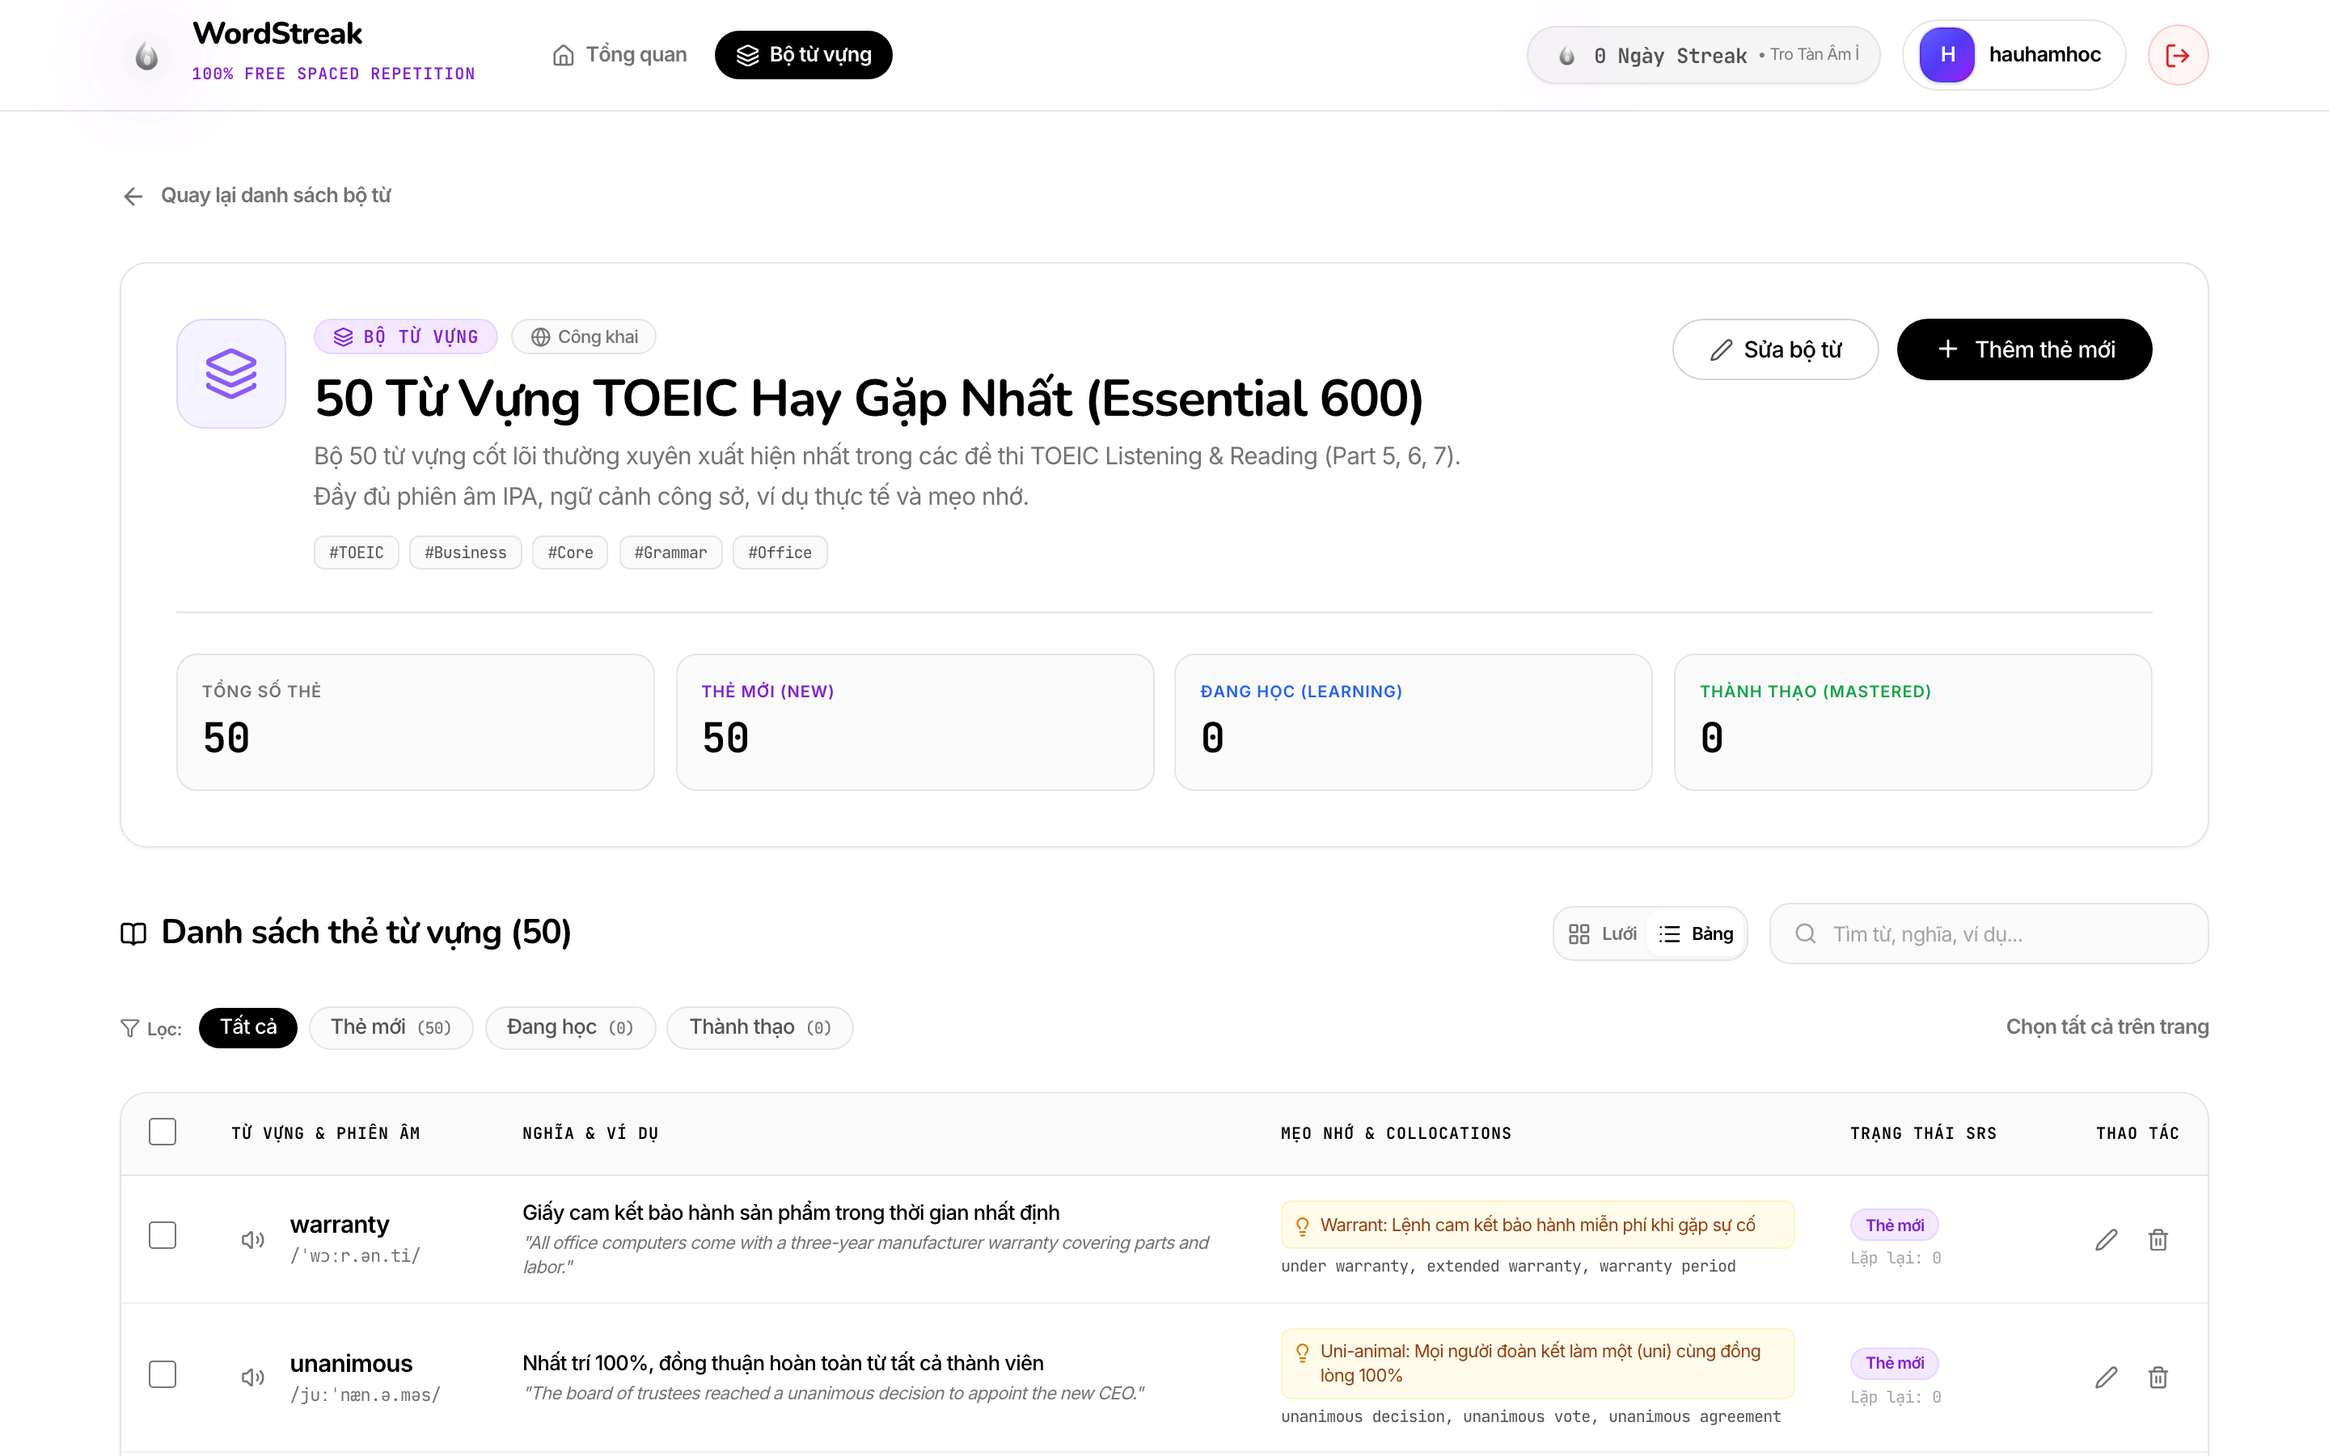
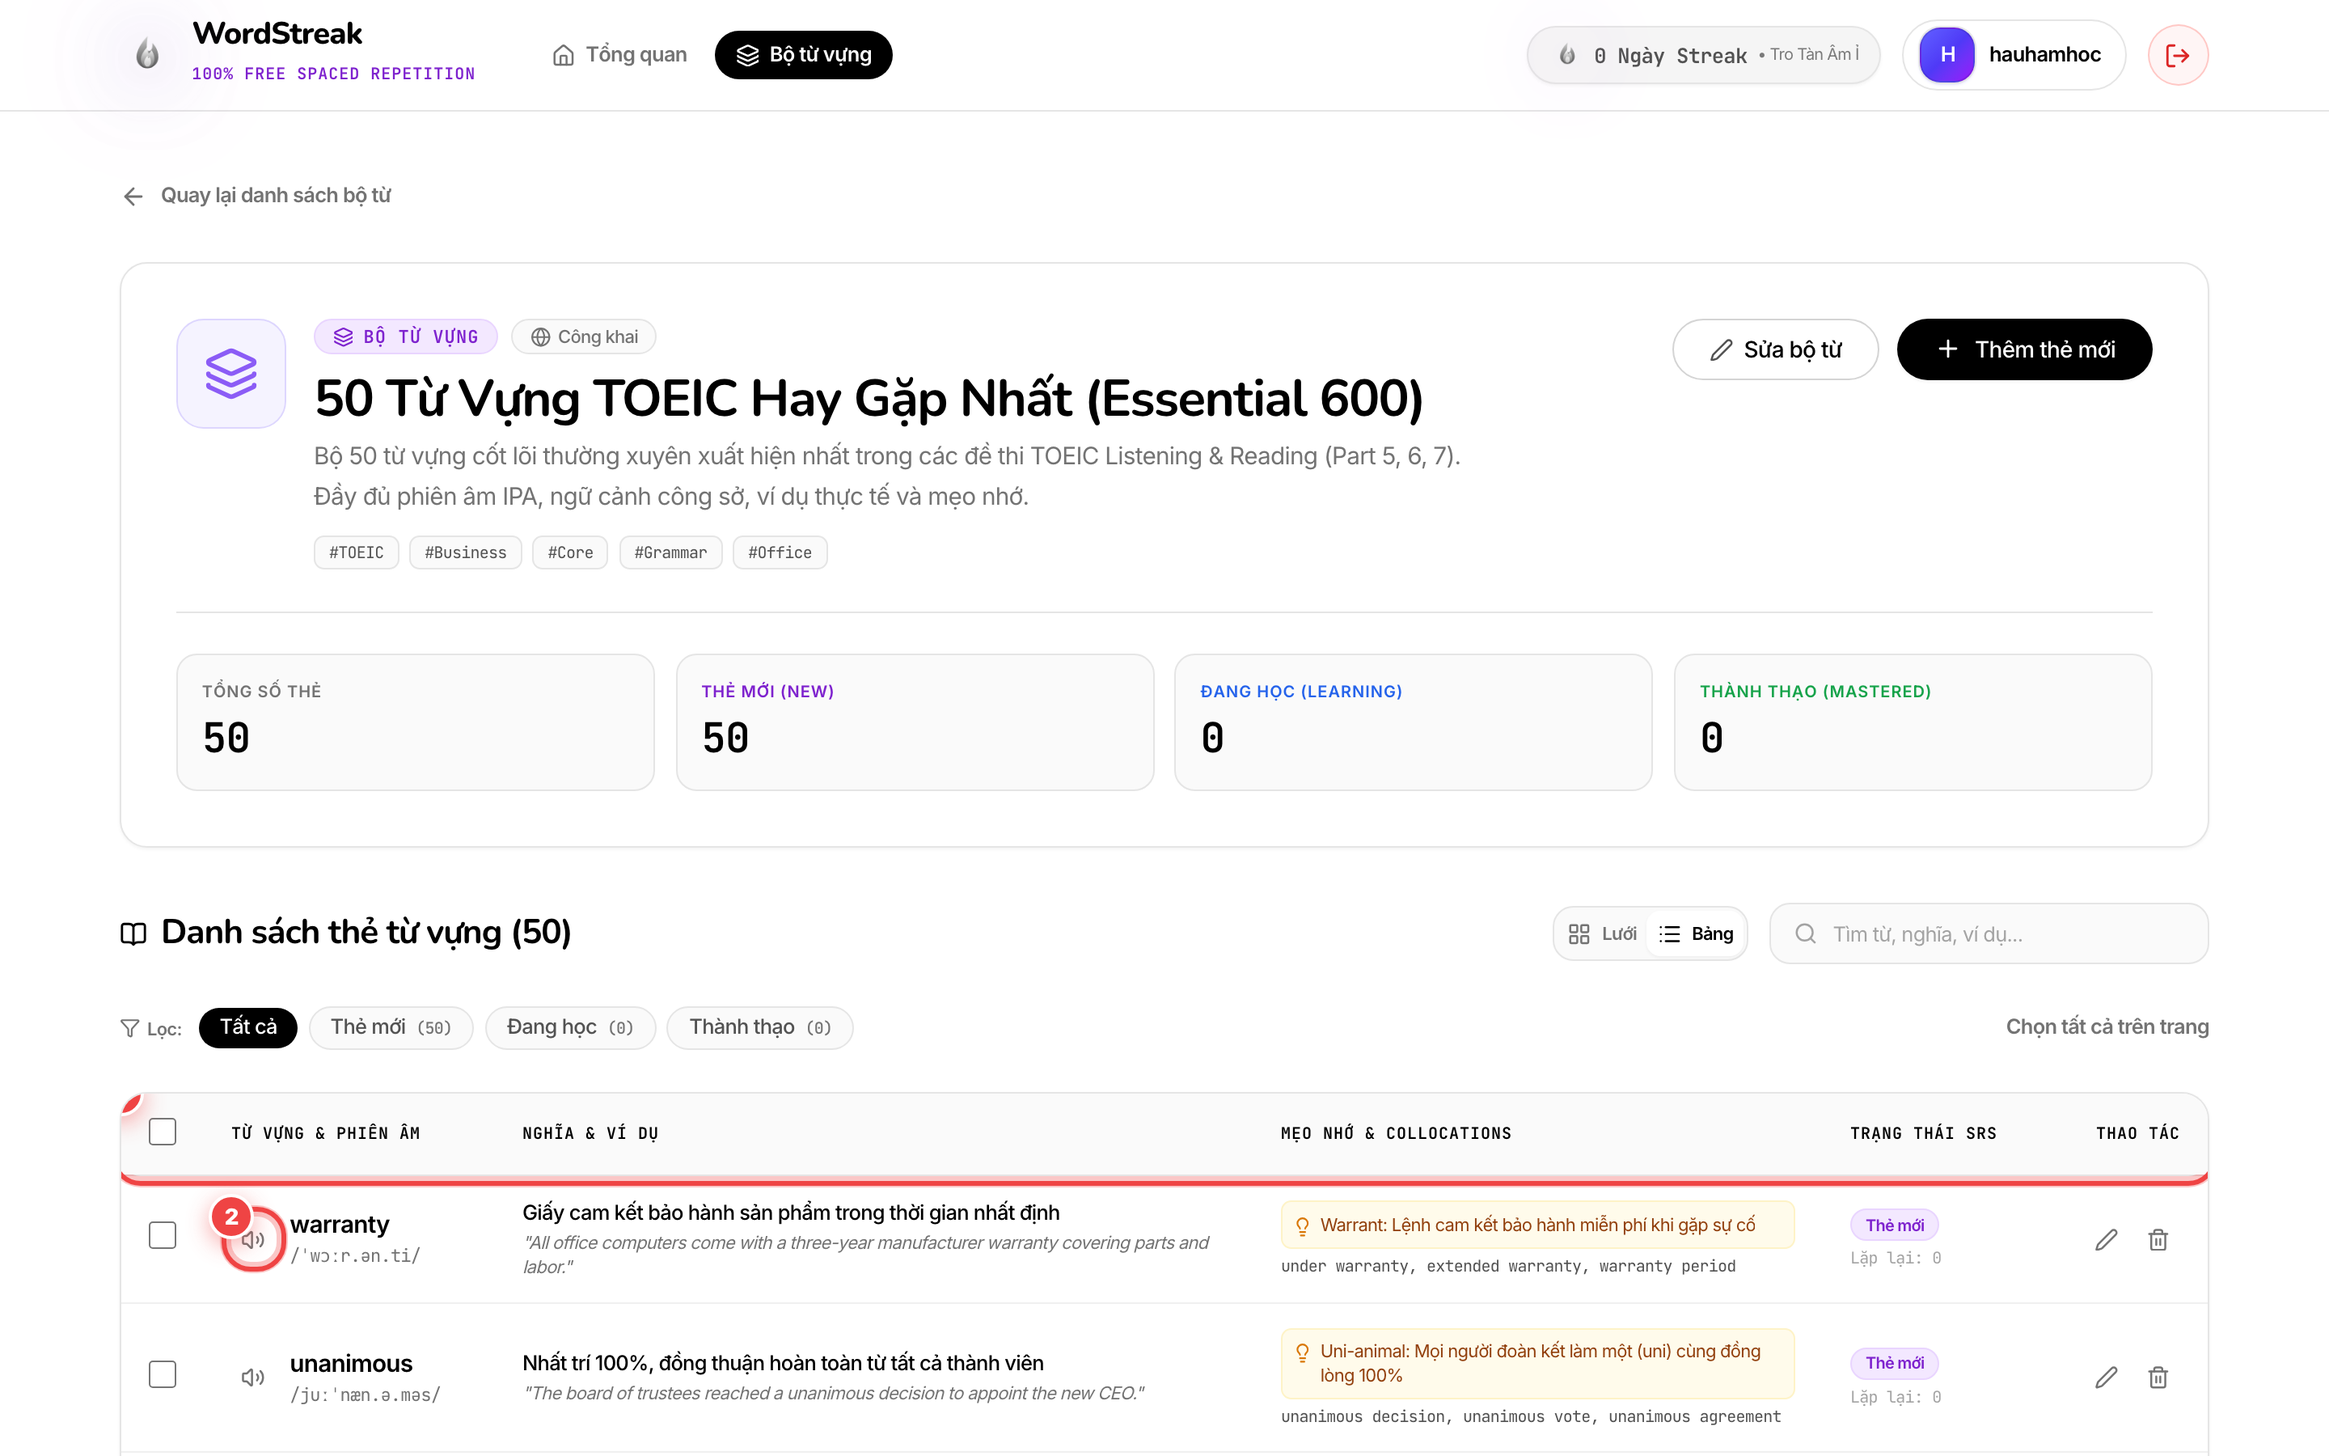
docs(user-guide): update red visual highlights and standardize user guide structure

Changed region(s): [[0.0625, 0.8089, 0.9375, 0.8711], [0.0312, 0.7467, 0.0625, 0.7778]]

diff --git a/docs/user-guides/card-management.md b/docs/user-guides/card-management.md
@@ -1,91 +1,104 @@
-# 📖 Hướng dẫn Người dùng: Quản lý & Tra cứu Thẻ Từ vựng
+# Hướng dẫn Sử dụng: Quản lý & Tra cứu Thẻ Từ vựng
 
-> **Đối tượng:** Người học WordStreak  
-> **Cập nhật lần cuối:** 2026-08-20  
-> **Trạng thái:** Đã kiểm thử trên giao diện thực tế (100% Real Screenshots with Visual Annotations & Badges)
+> Cập nhật lần cuối: 2026-08-20
 
----
+## Tính năng này giúp gì cho bạn?
 
-## 🎯 Tổng quan
+Khi học một bộ từ vựng có nhiều từ (như bộ 50 từ TOEIC), bạn cần tìm kiếm nhanh, kiểm tra xem từ nào mình đã thuộc, từ nào chưa học, và sắp xếp lại các thẻ một cách gọn gàng.
 
-Tính năng **Quản lý & Tra cứu Thẻ Từ vựng** giúp bạn dễ dàng xem lại, tìm kiếm nhanh và sắp xếp hàng trăm từ vựng trong từng Bộ từ. Bạn có thể linh hoạt chuyển đổi giữa giao diện **Lưới thẻ Flashcard 3D** và **Bảng dữ liệu danh sách**, lọc nhanh các từ theo cấp độ ghi nhớ, cũng như xóa hoặc di chuyển nhiều từ cùng lúc chỉ với vài thao tác đơn giản.
+Tính năng **Quản lý & Tra cứu Thẻ** cho phép bạn:
 
----
-
-## 🚀 Hướng dẫn Chi tiết Từng Bước
-
-### Bước 1: Xem Danh sách Thẻ ở Chế độ Lưới (Grid View)
-
-![Chế độ Lưới Thẻ](./images/card-management/step-01-view-modes.png)
-
-- **① Nút chuyển đổi chế độ xem**: Bấm để chuyển đổi nhanh giữa dạng **Lưới (Grid)** và dạng **Bảng (Table)**.
-- **② Thanh tìm kiếm nhanh**: Nhập từ vựng cần tra cứu ngay tại góc phải.
-- Mỗi thẻ Flashcard hiển thị trực quan từ vựng, phiên âm IPA, nghĩa tiếng Việt, vạch màu chủ đề và nhãn trạng thái học Spaced Repetition (`Mới`, `Đang học`, `Thành thạo`).
+- Xem từ vựng theo dạng **Lưới thẻ Flashcard 3D** hoặc **Bảng dữ liệu hàng ngang** mật độ cao.
+- Tìm kiếm từ khóa theo thời gian thực và lọc theo cấp độ ghi nhớ Spaced Repetition (Mới / Đang học / Thành thạo).
+- Thực hiện các thao tác quản lý hàng loạt: Xóa nhiều thẻ, Chuyển thẻ sang bộ từ khác, hoặc Đặt lại tiến độ học về Mới để học lại từ đầu.
 
 ---
 
-### Bước 2: Tìm kiếm Nhanh & Lọc theo Trạng thái Ghi nhớ
+## Hướng dẫn từng bước
 
-![Tìm kiếm và Lọc trạng thái](./images/card-management/step-02-search-filter.png)
+### Bước 1: Mở Bộ từ vựng và chọn Chế độ hiển thị
 
-- **① Ô tìm kiếm từ khóa**: Nhập từ tiếng Anh (ví dụ: `contract`), nghĩa hoặc câu ví dụ. Kết quả sẽ tự động lọc theo thời gian thực.
-- **② Thẻ lọc trạng thái (Filter Chips)**: Bấm chọn các nhãn màu để lọc:
-  - **Tất cả**: Toàn bộ từ vựng trong bộ từ.
-  - **Thẻ mới**: Từ vừa thêm vào, chưa qua ôn tập Spaced Repetition.
-  - **Đang học**: Từ đang trong chu kỳ ôn tập định kỳ.
-  - **Thành thạo**: Từ đã ghi nhớ xuất sắc (khoảng cách ôn tập $\ge 21$ ngày).
+![Chế độ Lưới và Bảng](./images/card-management/step-01-view-modes.png)
 
----
-
-### Bước 3: Chuyển sang Chế độ Bảng Danh sách (Table View)
-
-![Chế độ Bảng Danh sách](./images/card-management/step-03-table-view.png)
-
-- **① Hàng tiêu đề bảng (Table Header)**: Hiển thị rõ ràng các cột thông tin (Từ vựng, Loại từ & Phiên âm, Nghĩa tiếng Việt, Câu ví dụ, Trạng thái).
-- **② Nút Loa phát âm trực tiếp**: Bấm biểu tượng loa trên từng dòng để nghe giọng đọc bản xứ chuẩn xác ngay tức thì mà không cần mở form chỉnh sửa.
+- Khi mở một Bộ từ, danh sách thẻ mặc định hiển thị ở dạng **Lưới Flashcard 3D**.
+- **① Nút chuyển chế độ xem (Lưới / Bảng)**: Bấm nút **"Bảng"** (khoanh đỏ ①) nếu bạn muốn xem danh sách dạng bảng dòng kẻ nhiều thông tin, hoặc bấm **"Lưới"** để xem dạng thẻ học trực quan. Lựa chọn của bạn sẽ được ghi nhớ tự động cho các lần truy cập sau.
+- **② Thanh tìm kiếm nhanh**: Nằm ngay cạnh nút chuyển chế độ xem (khoanh đỏ ②), sẵn sàng cho bạn gõ từ khóa.
 
 ---
 
-### Bước 4: Chọn Nhiều Thẻ & Thanh Thao tác Hàng loạt (Bulk Actions)
+### Bước 2: Tìm kiếm từ vựng và Lọc theo Mức độ ghi nhớ
 
-![Chọn nhiều thẻ và thanh công cụ](./images/card-management/step-04-bulk-actions.png)
+![Tìm kiếm và Lọc theo trạng thái](./images/card-management/step-02-search-filter.png)
 
-- **① Ô tích chọn (Checkbox)**: Tích chọn các thẻ bạn muốn thao tác (hoặc tích ô trên cùng để chọn toàn bộ thẻ trên trang).
-- **② Thanh công cụ màu đen (Floating Toolbar)**: Tự động nổi lên ở đáy màn hình khi có ít nhất 1 thẻ được chọn, cung cấp 3 thao tác:
-  - 🗑 **Xóa**: Xóa các thẻ đã chọn khỏi bộ từ.
+- **① Ô tìm kiếm từ khóa**: Gõ bất kỳ chữ cái tiếng Anh, nghĩa tiếng Việt hoặc câu ví dụ (ví dụ: gõ `contract` vào ô khoanh đỏ ①). Danh sách sẽ tự động lọc ngay lập tức mà không cần bấm phím Enter.
+- **② Bộ lọc trạng thái (Filter Chips)**: Bấm vào các nhãn màu (khoanh đỏ ②) để lọc:
+  - **Tất cả**: Xem toàn bộ từ trong bộ từ.
+  - **Thẻ mới**: Những từ vựng bạn vừa thêm vào và chưa ôn tập phiên nào.
+  - **Đang học**: Những từ đang trong quá trình lặp lại ngắt quãng để ghi nhớ.
+  - **Thành thạo**: Những từ bạn đã ghi nhớ vững vàng.
+
+---
+
+### Bước 3: Xem Bảng danh sách chi tiết và Nghe phát âm trực tiếp
+
+![Bảng danh sách chi tiết và Phát âm](./images/card-management/step-03-table-view.png)
+
+- **① Hàng tiêu đề và dữ liệu bảng**: Chế độ bảng (khoanh đỏ ①) sắp xếp rõ ràng các cột: Từ vựng, Loại từ & Phiên âm, Nghĩa tiếng Việt, Câu ví dụ, Trạng thái học và Hành động.
+- **② Nút Loa phát âm**: Bấm biểu tượng chiếc loa màu xanh (khoanh đỏ ②) trên từng dòng từ vựng để nghe giọng đọc bản xứ chuẩn xác ngay tức thì mà không cần mở form chỉnh sửa.
+
+---
+
+### Bước 4: Tích chọn nhiều thẻ để mở Thanh thao tác hàng loạt
+
+![Chọn nhiều thẻ và thanh công cụ hàng loạt](./images/card-management/step-04-bulk-actions.png)
+
+- **① Ô tích chọn (Checkbox)**: Tích vào ô vuông ở đầu mỗi dòng (khoanh đỏ ①) cho những từ bạn muốn xử lý (hoặc tích ô trên cùng cạnh tiêu đề để chọn tất cả từ trên trang).
+- **② Thanh công cụ hàng loạt màu đen (Floating Toolbar)**: Sẽ lập tức nổi lên ở đáy màn hình (khoanh đỏ ②), hiển thị số lượng thẻ đã chọn và 3 nút hành động nhanh:
+  - 🗑 **Xóa**: Xóa đồng loạt các thẻ đã chọn.
   - 📦 **Di chuyển**: Chuyển các thẻ sang bộ từ khác.
-  - 🔄 **Đặt lại tiến độ**: Đưa các thẻ đã chọn về trạng thái Thẻ mới để học lại từ đầu.
+  - 🔄 **Đặt lại tiến độ**: Đưa các thẻ đã chọn về trạng thái Mới để học lại từ đầu.
 
 ---
 
-### Bước 5: Di chuyển Thẻ sang Bộ từ Khác (Bulk Move)
+### Bước 5: Di chuyển thẻ sang Bộ từ vựng khác (Bulk Move)
 
-![Cửa sổ di chuyển thẻ](./images/card-management/step-05-bulk-move-modal.png)
+![Cửa sổ di chuyển thẻ sang bộ từ khác](./images/card-management/step-05-bulk-move-modal.png)
 
-1. **① Chọn Bộ từ đích**: Chọn một bộ từ bạn sở hữu trong danh sách thả xuống.
-2. **② Xác nhận di chuyển**: Bấm nút màu xanh để chuyển thẻ. Toàn bộ lịch sử ôn tập Spaced Repetition của các từ này sẽ được giữ nguyên vẹn.
-
----
-
-### Bước 6: Phân trang & Điều hướng Danh sách
-
-![Thanh phân trang](./images/card-management/step-06-pagination.png)
-
-- **① Thanh phân trang (Pagination Bar)**: Hiển thị tổng số thẻ và số trang hiện tại. Bạn có thể chọn số lượng thẻ trên mỗi trang (`10`, `20`, `50` thẻ/trang) và bấm nút **Trước / Sau** để di chuyển mượt mà.
+1. Bấm nút **"Di chuyển"** trên thanh công cụ hàng loạt.
+2. **① Chọn Bộ từ đích**: Chọn bộ từ bạn muốn chuyển đến trong danh sách thả xuống (khoanh đỏ ①).
+3. **② Xác nhận di chuyển**: Bấm nút **"Xác nhận di chuyển"** (khoanh đỏ ②) để hoàn tất. Toàn bộ tiến độ học và lịch sử ôn tập của các thẻ này sẽ được bảo lưu nguyên vẹn sang bộ từ mới.
 
 ---
 
-## 💡 Mẹo Hữu ích (Tips)
+### Bước 6: Phân trang và Tùy chỉnh số lượng thẻ hiển thị
 
-- **Xem nhanh Collocations & Mẹo nhớ**: Ở chế độ Lưới, bấm nút mở rộng dưới chân mỗi thẻ để đọc mẹo ghi nhớ sinh động và các cụm từ thường đi kèm trong đề thi TOEIC.
-- **Học lại từ khó**: Nếu muốn ôn tập lại một nhóm từ vựng từ đầu, hãy chọn chúng và dùng chức năng **Đặt lại tiến độ** thay vì phải xóa đi tạo lại.
+![Thanh phân trang danh sách](./images/card-management/step-06-pagination.png)
+
+- **① Thanh điều khiển phân trang**: Ở dưới cùng của danh sách (khoanh đỏ ①):
+  - Hiển thị tổng số thẻ hiện có và trang hiện tại (ví dụ: _Hiển thị 1 - 20 trong tổng số 50 thẻ_).
+  - Bấm nút **"Trước"** hoặc **"Sau"** để lật trang mượt mà.
+  - Chọn số lượng thẻ trên mỗi trang (`10`, `20`, hoặc `50` thẻ) tùy theo thói quen học tập của bạn.
 
 ---
 
-## ❓ Câu hỏi Thường gặp (FAQ)
+## Mẹo hay khi sử dụng
 
-- **Q: Khi tôi chuyển thẻ sang bộ từ khác, tiến độ học của tôi có bị mất không?**  
-  **A:** Không. WordStreak giữ nguyên toàn bộ lịch sử ôn tập Spaced Repetition (độ dễ, số lần lặp lại, ngày ôn tiếp theo) của bạn khi di chuyển thẻ.
+- **Mẹo 1 - Ôn tập lại từ khó**: Nếu sau một thời gian bạn muốn làm mới lại một nhóm từ vựng khó nhớ, hãy tích chọn các từ đó và bấm **"Đặt lại tiến độ"**. Bạn không cần phải xóa thẻ đi tạo lại từ đầu.
+- **Mẹo 2 - Mở rộng chi tiết ở dạng Lưới**: Khi xem ở dạng Lưới Flashcard 3D, hãy bấm nút mũi tên nhỏ dưới chân mỗi thẻ để xem nhanh phần **Mẹo ghi nhớ (Mnemonic)** và **Cụm từ hay đi kèm (Collocations)**.
 
-- **Q: Tôi có thể chọn tất cả các thẻ ở tất cả các trang cùng lúc không?**  
-  **A:** Ô tích chọn trên cùng sẽ chọn tất cả thẻ trên **trang hiện tại** (tối đa 50 thẻ/lần). Điều này giúp bạn kiểm soát chính xác các từ vựng trước khi thực hiện thao tác hàng loạt.
+---
+
+## Câu hỏi thường gặp
+
+**Q: Khi tôi chuyển thẻ sang bộ từ khác, tiến độ học Spaced Repetition của tôi có bị mất không?**  
+**A:** Hoàn toàn không. WordStreak giữ nguyên toàn bộ lịch sử ôn tập (độ dễ, số lần lặp lại, ngày ôn tiếp theo) của bạn khi di chuyển thẻ.
+
+**Q: Tôi có thể chọn tất cả các thẻ ở tất cả các trang cùng lúc không?**  
+**A:** Ô tích chọn trên cùng sẽ chọn tất cả thẻ trên **trang hiện tại** (tối đa 50 thẻ/lần). Điều này giúp bạn kiểm soát trực quan chính xác những thẻ mình sắp xóa hoặc di chuyển trước khi bấm xác nhận.
+
+---
+
+## Chưa hỗ trợ trong phiên bản này
+
+- Kéo thả thủ công để thay đổi vị trí từng thẻ theo ý muốn (thứ tự hiện tại sắp xếp theo thời gian tạo mới nhất).
+- Chỉnh sửa trực tiếp nội dung từng ô dữ liệu dạng bảng tính Excel inline (bạn vẫn có thể bấm nút Sửa trên từng thẻ để chỉnh sửa chi tiết).
